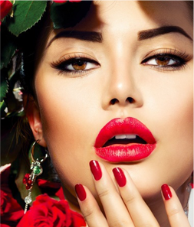
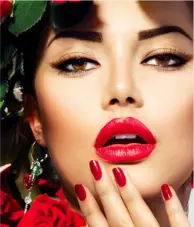
convert_imgs

diff --git a/index.html b/index.html
@@ -63,25 +63,25 @@
       <h1 class="ysl"><b><i class="fas fa-star"></i>Услуги<i class="fas fa-star"></i></b></h1>
 		
 	
-	<div class="yslygi"><img src="images/sd.jpg" width="100%" alt="make">
+	<div class="yslygi"><img src="images/sd.webp" width="100%" alt="make">
 		<div class="text-center">
 			<p>Вечерний макияж</p><p>цена <span>500 грн.</span></p>
 			<a href="#" class="knopka knysl"><strong>Запись онлайн</strong></a>
 		</div>
 	</div>
-	<div class="yslygi"><img src="images/sc.jpg" width="100%" alt="make">
+	<div class="yslygi"><img src="images/sc.webp" width="100%" alt="make">
 		<div class="text-center">
 			<p>Свадебный макияж</p><p>цена <span>500 грн.</span></p>
 			<a href="#" class="knopka knysl"><strong>Запись онлайн</strong></a>
 		</div>
 	</div>
-	<div class="yslygi"><img src="images/sb.jpg" width="100%" alt="make">
+	<div class="yslygi"><img src="images/sb.webp" width="100%" alt="make">
 		<div class="text-center">
 			<p>Макияж на фотосессию</p><p>цена <span>500 грн.</span></p>
 			<a href="#" class="knopka knysl"><strong>Запись онлайн</strong></a>
 		</div>
 	</div>
-	<div class="yslygi"><img src="images/sa.jpg" width="100%" alt="make">
+	<div class="yslygi"><img src="images/sa.webp" width="100%" alt="make">
 		<div class="text-center">
 			<p>Макияж Nude</p><p>цена <span>500 грн.</span></p>
 			<a href="#" class="knopka knysl"><strong>Запись онлайн</strong></a>
@@ -98,22 +98,22 @@
   <h1 class="ysl"><b><i class="fas fa-star"></i>Портфолио<i class="fas fa-star"></i></b></h1>
 <div class="slider">
     <div class="slider__item">
-      <img class="foto" src="images/1sl.png">
+      <img class="foto" src="images/1sl.webp">
     </div>
     <div class="slider__item">
-      <img class="foto" src="images/2sl.png">
+      <img class="foto" src="images/2sl.webp">
     </div>
     <div class="slider__item">
-      <img class="foto" src="images/3sl.png">
+      <img class="foto" src="images/3sl.webp">
     </div>
     <div class="slider__item">
-      <img class="foto" src="images/1sl.png">
+      <img class="foto" src="images/1sl.webp">
     </div>
     <div class="slider__item">
-      <img class="foto" src="images/2sl.png">
+      <img class="foto" src="images/2sl.webp">
     </div>
     <div class="slider__item">
-      <img class="foto" src="images/3sl.png">
+      <img class="foto" src="images/3sl.webp">
     </div>
   </div>
 </div>
